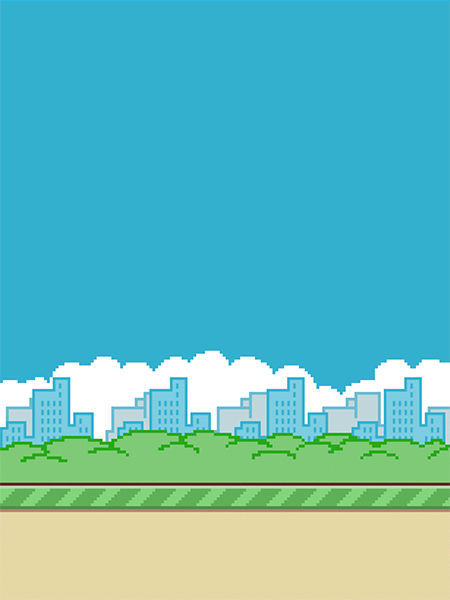
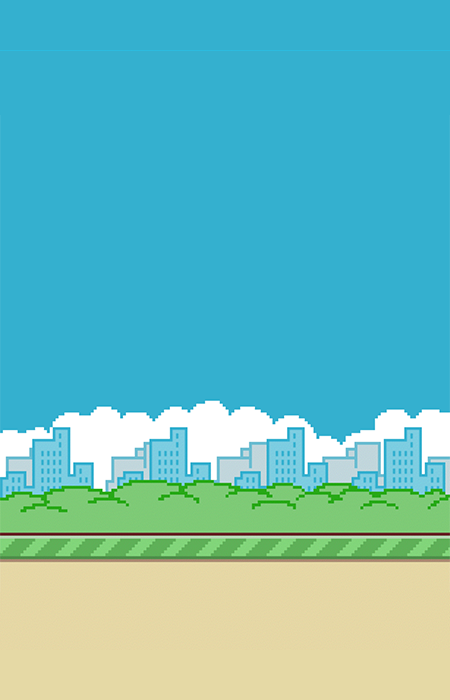
added ground and fixed bugs

Changed region(s): [[0.0, 0.57, 1.0, 0.87]]

diff --git a/js/main.js b/js/main.js
@@ -1,21 +1,18 @@
-//can use the following window onload 
-//hack with html img tag to load images
-//the way I used it hear
 window.onload = function () {
     const c = document.getElementById('canvas');
     newgame = document.getElementById('newgame');
 
-    //avoid sizing canvas with css. Use javascript.
-    c.width = window.innerWidth;
-    c.height = 600;
+    //sizing canvas
+    c.width = window.innerWidth-18;
+    c.height = 700;
 
-    //object interface that has methods for communicating between canvas and graphic card
     const ctx = c.getContext('2d');
     
     const environment = new Environment(c, ctx);
+    
     const bird = new Bird(300, 300, ctx);
     const theme = new Audio();
-    theme.src = "../sounds/theme.mp3";
+    theme.src = "./sounds/theme.mp3";
     
     const pipes = [];
     let pipeSet = generateRandomPipes(ctx, c.width, c.height);
@@ -32,7 +29,8 @@ window.onload = function () {
     /*
        Main Game Loop
     */
-    function gameLoop() {
+    function gameLoop() 
+    {
         bird.update(pipes);
 
         if (!bird.dead) {
@@ -60,7 +58,6 @@ window.onload = function () {
             
         } 
          
-        
         window.requestAnimationFrame(gameLoop);
     }
 };
@@ -75,13 +72,9 @@ function generateRandomPipes(ctx, canvasWidth, canvasHeight) {
 }
 
 function drawGameOver(ctx, c) {
-    // ctx.font = "30px Verdana";
-    // ctx.textAlign = "center";
-    // ctx.fillText("Game Over!!", c.width / 2, c.height / 2);
-
     var gameover = document.createElement("div");
     gameover.classList.add('gameover-container');
-    gameover.setAttribute("style", `position: absolute; z-index: 99; top: ${(c.height/2) - 150}px; left: ${(c.width/2)-150}px; width: 300px; height: 300px; background: url(../images/flappygameover.jpg);`);
+    gameover.setAttribute("style", `position: absolute; z-index: 99; top: ${(c.height/2) - 150}px; left: ${(c.width/2)-150}px; width: 300px; height: 300px; background: url(./images/flappygameover.jpg);`);
     document.body.appendChild(gameover);
     
 }

diff --git a/index.html b/index.html
@@ -8,9 +8,18 @@
     <style>
     body{padding: 0; margin: 0;}
     img{display: none;}
+    #trees{
+        position: absolute; bottom: 0px; left: 0; z-index: 999;
+        background-image: url("images/treesbg.png");
+        min-width: 100%;
+        min-height: 200px;
+    }
     #newgame{
         text-align: center; 
-        position: absolute; top:400px; left:48%;
+        position: absolute; 
+        top: 400px; 
+        left: 50%;
+        transform: translateX(-50%) translateY(-50%);
         padding: 10px;
         font-size: 16px;
         display: none;
@@ -26,7 +35,7 @@
     <img src='images/bird3.png' id='bird3'>
     <img src='images/bg.png' id='bg'>
     <button id="newgame" type="submit" onclick="newGame()">New Game</button>
-
+    <div id='trees'></div>
     <script src="js/Pipe.js"></script>
     <script src="js/Bird.js"></script>
     <script src="js/Environment.js"></script>

diff --git a/js/Ground.js b/js/Ground.js
@@ -18,5 +18,5 @@ Ground.prototype.update = function(){
 
 Ground.prototype.render = function(){
     for(let i = 0; i <= this.c.width/this.groundWidth+1; i++)
-    this.ctx.drawImage(this.groundImg, this.bgPos+i*this.groundWidth, 500);
+    this.ctx.drawImage(this.groundImg, this.bgPos+i*this.groundWidth, 700);
 };

diff --git a/js/Score.js b/js/Score.js
@@ -12,7 +12,7 @@ Score.prototype.update = function (pipes) {
         //bird passed pipe
         if (this.bird.x > pipes.xpos + pipes.width &&
         !pipes.passed) {
-            // console.log('Passed Pipe');
+            
             pipes.passed = true;
             this.score += 0.5;
         }
